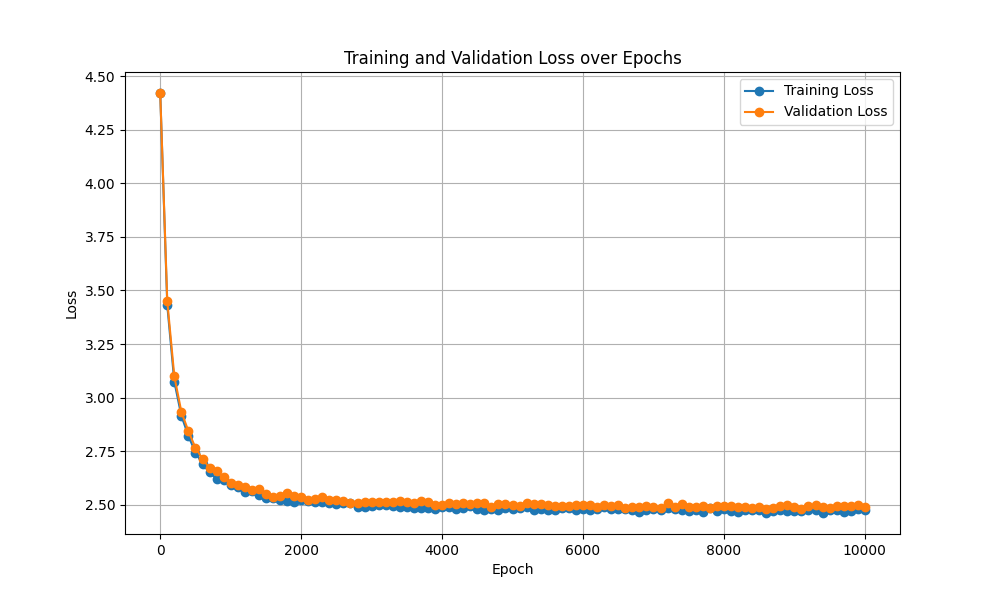
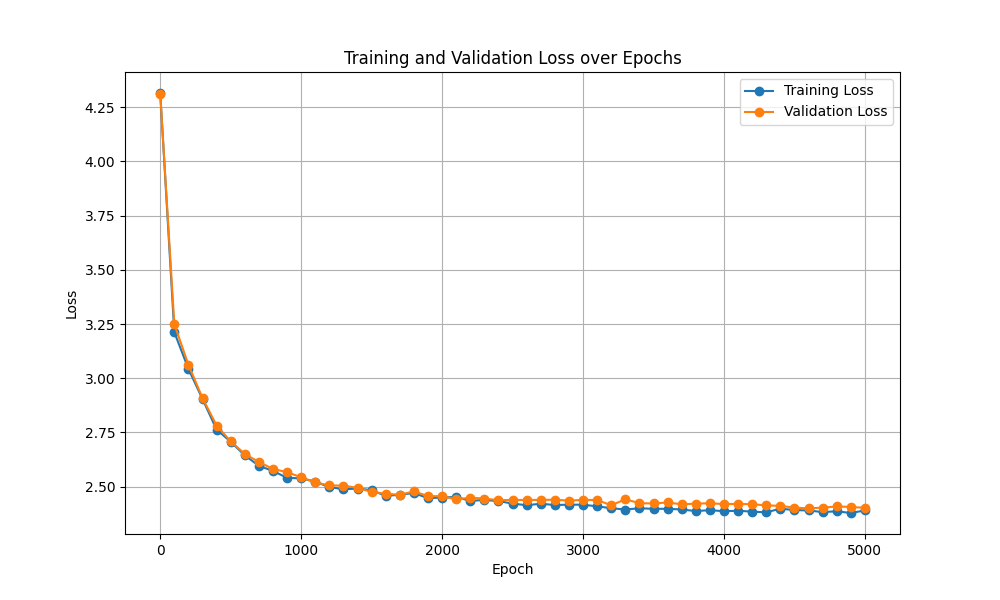
self attention

diff --git a/new.py b/new.py
@@ -9,9 +9,9 @@ from torch.nn import functional as F
 block_size = 8 #context window
 batch_size = 32 #parallel operations
 
-epochs = 10000 #training iterations
+epochs = 5000 #training iterations
 
-device = torch.device("mps")
+device = torch.device("cuda")
 learning_rate = 1e-3
 
 # how often to run evaluation
@@ -78,6 +78,31 @@ def estimate_loss():
     model.train()
     return out
 
+class Head(nn.Module):
+    
+    def __init__(self, head_size):
+        super().__init__()
+        self.key = nn.Linear(n_embed, head_size, bias=False)
+        self.query = nn.Linear(n_embed, head_size, bias=False)
+        self.value = nn.Linear(n_embed, head_size, bias=False)
+        self.register_buffer('tril', torch.tril(torch.ones(block_size, block_size)))
+
+    def forward(self, x):
+        B,T,C = x.shape
+        k = self.key(x)   # (B,T,head_size)
+        q = self.query(x) # (B,T,head_size)
+
+        wei = q @ k.transpose(-2,-1) * C**-0.5 # (B,T,head_size) @ (B,head_size,T) -> (B,T,T)
+
+        wei = wei.masked_fill(self.tril[:T, :T] == 0, float('-inf'))
+        wei = F.softmax(wei, dim=-1) # (B,T,T)
+
+
+        v = self.value(x) # (B,T,head_size)
+
+        out = wei @ v # (B,T,T) @ (B,T,head_size) -> (B,T,head_size)
+        return out
+
 class BigramModel(nn.Module):
     def __init__(self, vocab_size):
         super().__init__()
@@ -89,6 +114,7 @@ class BigramModel(nn.Module):
         '''
         self.token_embedding_table = nn.Embedding(vocab_size, n_embed)
         self.position_embedding_table = nn.Embedding(block_size, n_embed)
+        self.sa_head = Head(n_embed)
         self.lm_head = nn.Linear(n_embed,vocab_size)
 
     def forward(self, idx, targets = None):
@@ -99,7 +125,7 @@ class BigramModel(nn.Module):
         pos_embedding = self.position_embedding_table(torch.arange(T,device = device))
         
         x = token_embedding + pos_embedding #enable position-based embeddings 
-
+        x = self.sa_head(x) # (B,T,C)
         logits = self.lm_head(x) # (B, T, vocab_size)
 
         # holds token identities and positions
@@ -118,18 +144,17 @@ class BigramModel(nn.Module):
             '''
             loss = F.cross_entropy(logits,targets)
         return logits, loss
-
+    
 
     def generate(self, idx, max_new_tokens):
         for _ in range(max_new_tokens):
-            logits, loss = self(idx)
-            logits = logits[ :, -1,:] #most recent timestamp, hence "bi-gram"
-            probabilities = F.softmax(logits, dim=1)
-            idx_next = torch.multinomial(probabilities,num_samples=1)
-            idx = torch.cat((idx,idx_next),dim=1)
-
+            idx_cond = idx[:, -block_size:] # use only the recent context
+            logits, _ = self(idx_cond)
+            logits = logits[:, -1, :] # last time step
+            probs = F.softmax(logits, dim=1)
+            idx_next = torch.multinomial(probs, num_samples=1)
+            idx = torch.cat((idx, idx_next), dim=1)
         return idx
-
 
 model = BigramModel(vocab_size)
 
